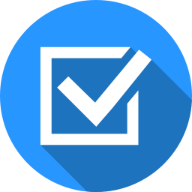
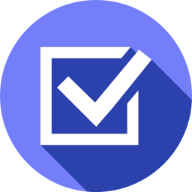
Change color theme

diff --git a/src/components/TasksList/TaskItem.js b/src/components/TasksList/TaskItem.js
@@ -19,7 +19,7 @@ const useStyles = makeStyles((theme) => ({
   },
   paused: {
     color: theme.palette.action.disabled,
-    backgroundColor: theme.palette.action.disabledBackground,
+    backgroundColor: theme.palette.grey[100],
     transition: ".2s ease-out",
   },
 }));

diff --git a/src/theme.js b/src/theme.js
@@ -6,7 +6,7 @@ const theme = createMuiTheme({
   palette: {
     type: isDark ? "dark" : "light",
     primary: {
-      main: indigo[400],
+      main: indigo[500],
     },
     secondary: {
       main: purple[400],
